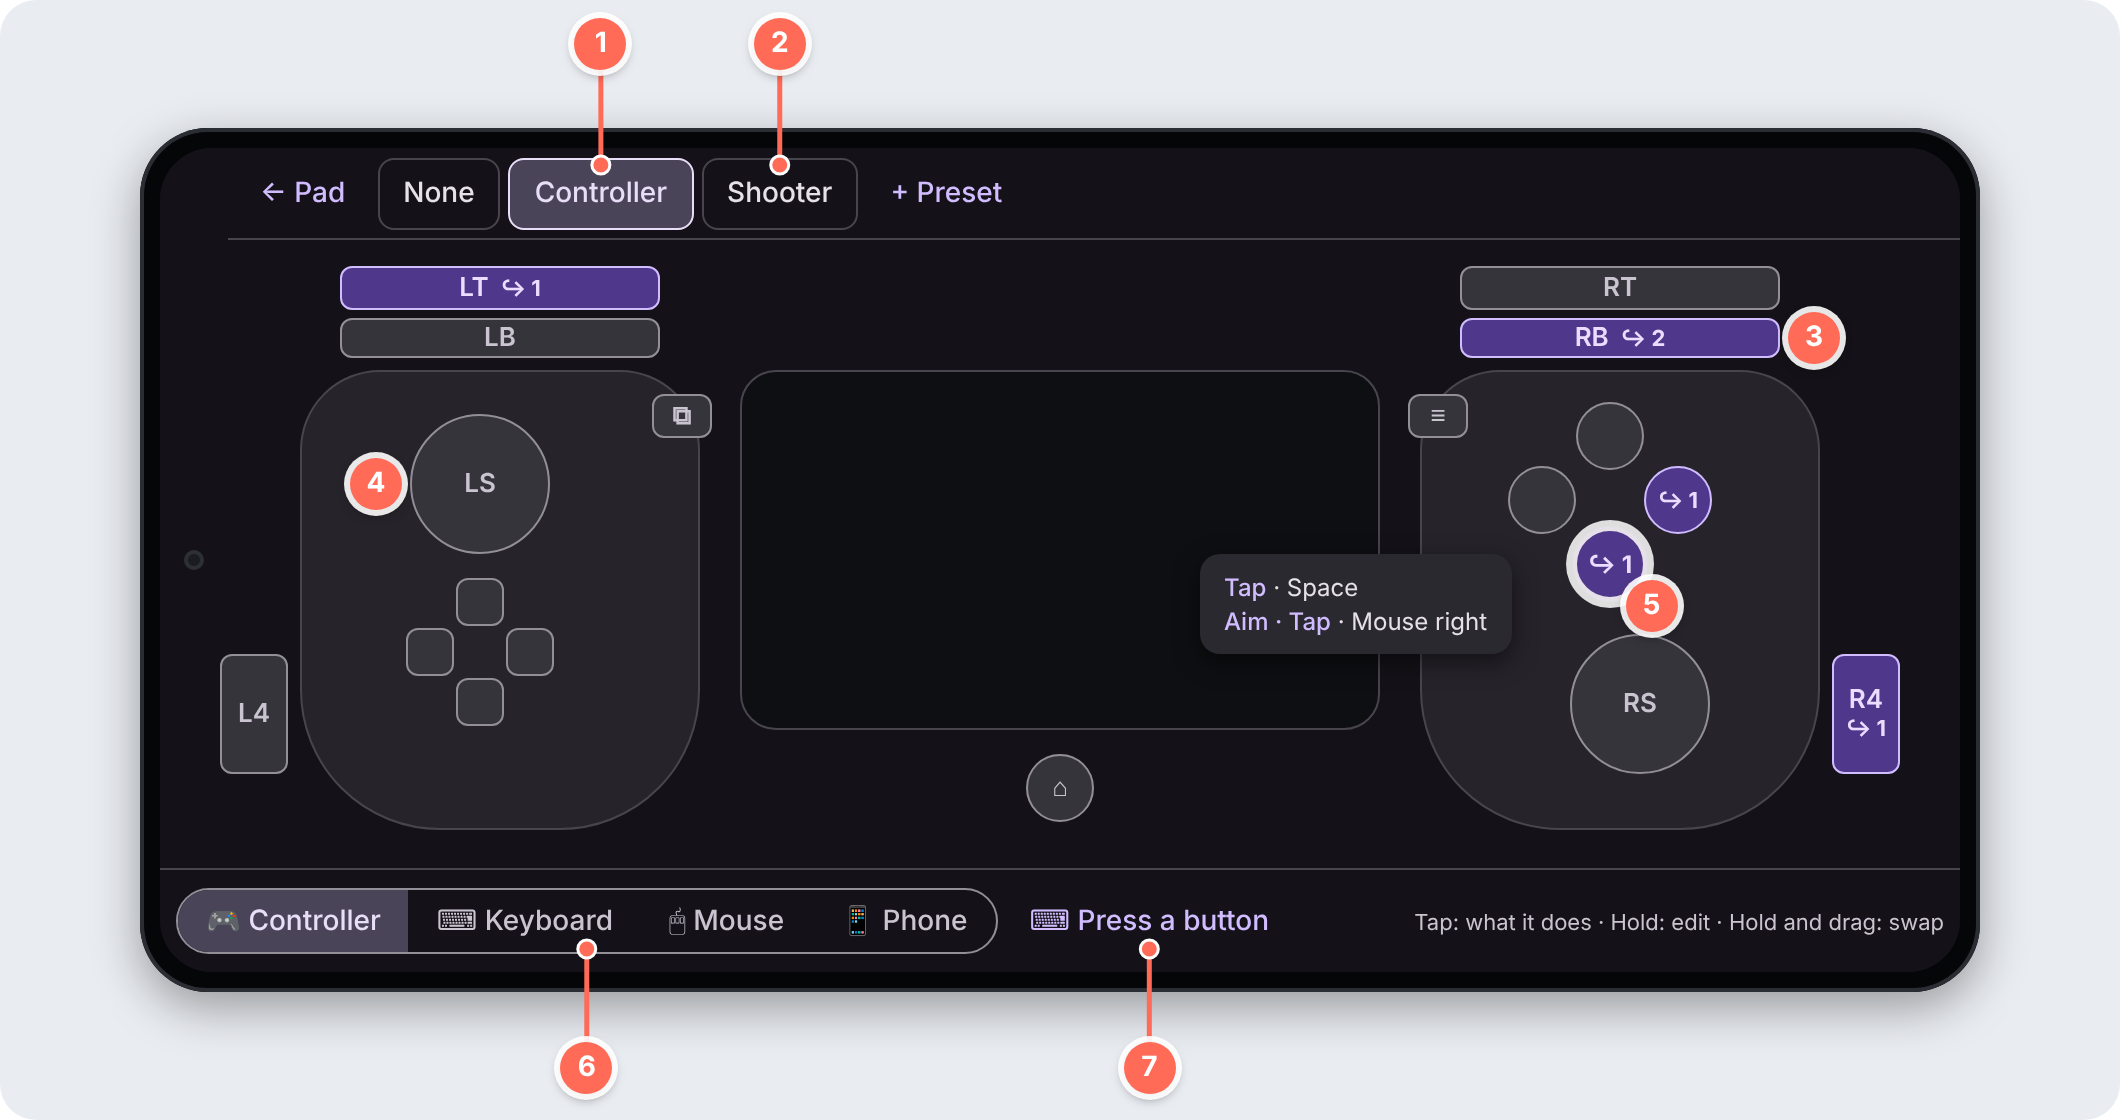
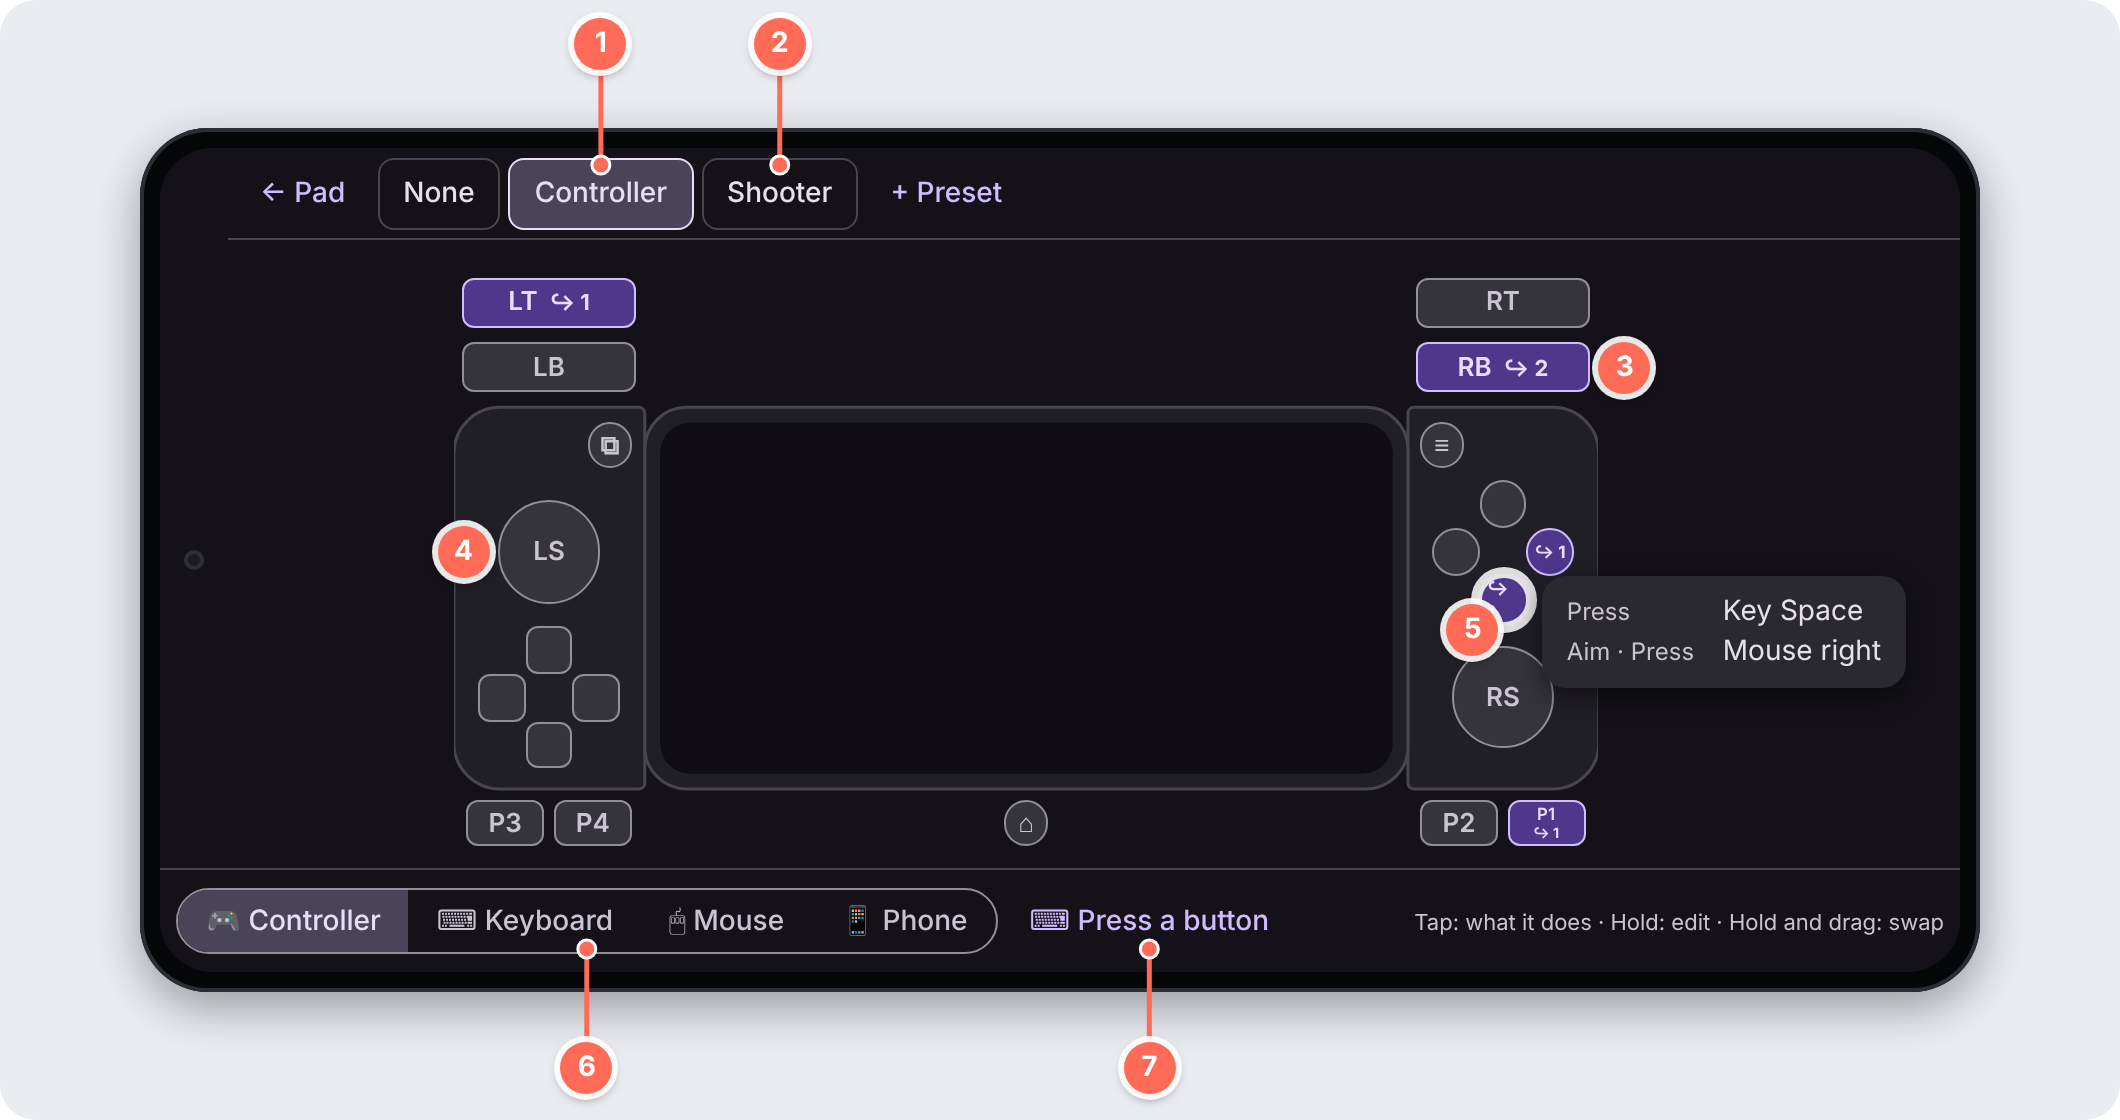
Draw the mapping editor side by side as in landscape, and the controller screen as HandlesView lays it out

diff --git a/docs/guide/mockups/controller-screen.html b/docs/guide/mockups/controller-screen.html
@@ -18,7 +18,7 @@
 .dsw span{padding:7px 14px;font-size:14px;font-weight:500;color:var(--m3-on-variant)}
 .dsw span.on{background:var(--m3-secondary-container);color:var(--m3-on-secondary-container)}
 .pop{position:absolute;background:#2B2930;border-radius:10px;padding:8px 12px;font-size:12px;line-height:17px;color:#E6E0E9;box-shadow:0 4px 12px rgba(0,0,0,.5);white-space:nowrap}
-.pop b{color:#D0BCFF;font-weight:500}
+.pop{background:#2B2930;border-radius:12px;padding:8px 12px;font-size:14px;line-height:20px}.pop .w{display:inline-block;width:78px;font-size:12px;color:#CAC4D0}
 </style></head><body>
 <div class="stage pad-callouts" id="st"></div>
 <script>
@@ -32,31 +32,57 @@ const p = el(s, `<div class="page" style="padding-left:34px">
   <span style="flex:1"></span><span style="font-size:11px;color:var(--m3-on-variant)">Tap: what it does · Hold: edit · Hold and drag: swap</span></div>
 </div>`);
 const b = p.querySelector('.board');
-el(b, `<div class="hand" style="left:70px"></div>`);
-el(b, `<div class="hand" style="left:630px"></div>`);
-el(b, `<div class="ph"></div>`);
-// x, y, w, h, label, round, count (0 = does only itself)
-const K = (id, x, y, w, h, label, round, n = 0) => el(b, `<div class="c${round ? ' r' : ''}${w > 2.4 * h ? ' w' : ''}${n ? ' m' : ''}" data-id="${id}" style="left:${x}px;top:${y}px;width:${w}px;height:${h}px">${label}${n ? `<span class="n">↪ ${n}</span>` : ''}</div>`);
-K('lt', 90, 6, 160, 22, 'LT', false, 1); K('lb', 90, 32, 160, 20, 'LB', false);
-K('rt', 650, 6, 160, 22, 'RT', false); K('rb', 650, 32, 160, 20, 'RB', false, 2);
-K('ls', 125, 80, 70, 70, 'LS', true);
-K('du', 148, 162, 24, 24, '', false); K('dd', 148, 212, 24, 24, '', false); K('dl', 123, 187, 24, 24, '', false); K('dr', 173, 187, 24, 24, '', false);
-K('y', 708, 74, 34, 34, '', true); K('x', 674, 106, 34, 34, '', true); K('b', 742, 106, 34, 34, '', true, 1); K('a', 708, 138, 34, 34, '', true, 1);
-K('rs', 705, 190, 70, 70, 'RS', true);
-K('view', 246, 70, 30, 22, '⧉', false); K('menu', 624, 70, 30, 22, '≡', false);
-K('home', 433, 250, 34, 34, '⌂', true);
-K('p1', 30, 200, 34, 60, 'L4', false); K('p2', 836, 200, 34, 60, 'R4', false, 1);
+// PhysicalLayouts.handles(HANDLES_PHONE) and HandlesView: all sizes in handle heights (u), the box 3 x 1.52 u,
+// as large as fits the board (8 dp padding), centred.
+const BW = 866 - 16, BH = 306 - 16, H = 1.52, W = 3.0;
+const w = Math.min(BW, BH * W / H), h = w * H / W, u = h / H;
+const box = el(b, `<div style="position:absolute;left:${8 + (BW - w) / 2}px;top:${8 + (BH - h) / 2}px;width:${w}px;height:${h}px"></div>`);
+const hTop = 0.36 * u, hw = 0.5 * u;
+const body = '#211F26', edge = '#49454F';
+el(box, `<svg width="${w}" height="${h}" style="position:absolute;left:0;top:0">
+ <path d="${handle(0, true)}" fill="${body}" stroke="${edge}" stroke-width="1.5"/>
+ <path d="${handle(w - hw, false)}" fill="${body}" stroke="${edge}" stroke-width="1.5"/>
+ <rect x="${hw}" y="${hTop}" width="${w - 2 * hw}" height="${u}" rx="${0.11 * u}" fill="${body}" stroke="${edge}" stroke-width="1.5"/>
+ <rect x="${hw + 0.04 * u}" y="${hTop + 0.04 * u}" width="${w - 2 * hw - 0.08 * u}" height="${u - 0.08 * u}" rx="${0.08 * u}" fill="#0F0D13"/></svg>`);
+function handle(x0, outerLeft) {
+  const ro = 0.12 * u, ri = 0.015 * u, [rl, rr] = outerLeft ? [ro, ri] : [ri, ro], x1 = x0 + hw, y0 = hTop, y1 = hTop + u;
+  return `M${x0 + rl},${y0} H${x1 - rr} A${rr},${rr} 0 0 1 ${x1},${y0 + rr} V${y1 - rr} A${rr},${rr} 0 0 1 ${x1 - rr},${y1} H${x0 + rl} A${rl},${rl} 0 0 1 ${x0},${y1 - rl} V${y0 + rl} A${rl},${rl} 0 0 1 ${x0 + rl},${y0} Z`;
+}
+const left = 0.25, right = W - 0.25, t = 0.36, stick = 0.27, key = 0.125, gap = 0.125, bar = 0.46, barH = 0.13, small = 0.12, paddle = 0.2;
+const bottom = t + 1 + 0.03 + 0.06;
+const ICONS = { view: '⧉', menu: '≡', home: '⌂' };
+// id, x, y, w, h (handle heights), label, round, remaps (0 = does only itself)
+const K = (id, x, y, cw, ch, label, round, n = 0) => {
+  const px = x * u - cw * u / 2, py = y * u - ch * u / 2, wide = cw > 2.4 * ch;
+  return el(box, `<div class="c${round ? ' r' : ''}${n ? ' m' : ''}${wide ? ' w' : ''}" data-id="${id}" style="left:${px}px;top:${py}px;width:${cw * u}px;height:${ch * u}px"><span class="in" style="display:flex;flex-direction:${wide ? 'row' : 'column'};align-items:center;gap:${wide ? 6 : 0}px">${label}${n ? `<span class="n">↪ ${n}</span>` : ''}</span></div>`);
+};
+K('lt', left, 0.02 + barH / 2, bar, barH, 'LT', false, 1);
+K('lb', left, 0.02 + barH * 1.5 + 0.04, bar, barH, 'LB', false);
+K('rt', right, 0.02 + barH / 2, bar, barH, 'RT', false);
+K('rb', right, 0.02 + barH * 1.5 + 0.04, bar, barH, 'RB', false, 2);
+K('ls', left, t + 0.38, stick, stick, 'LS', true);
+K('up', left, t + 0.76 - gap, key, key, '', false); K('down', left, t + 0.76 + gap, key, key, '', false);
+K('left', left - gap, t + 0.76, key, key, '', false); K('right', left + gap, t + 0.76, key, key, '', false);
+K('y', right, t + 0.38 - gap, key, key, '', true); K('a', right, t + 0.38 + gap, key, key, '', true, 1);
+K('x', right - gap, t + 0.38, key, key, '', true); K('b', right + gap, t + 0.38, key, key, '', true, 1);
+K('rs', right, t + 0.76, stick, stick, 'RS', true);
+K('view', 0.5 - 0.09, t + 0.1, small, small, ICONS.view, true); K('menu', W - 0.5 + 0.09, t + 0.1, small, small, ICONS.menu, true);
+K('p3', left - 0.115, bottom, paddle, 0.12, 'P3', false); K('p4', left + 0.115, bottom, paddle, 0.12, 'P4', false);
+K('p2', right - 0.115, bottom, paddle, 0.12, 'P2', false); K('p1', right + 0.115, bottom, paddle, 0.12, 'P1', false, 1);
+K('home', W / 2, bottom, small, small, ICONS.home, true);
+// ControlFace: content laid out at full size, then shrunk (never grown) to fit 70 % (round) or 86 % of the control.
+box.querySelectorAll('.c').forEach(c => { const i = c.querySelector('.in'), room = c.classList.contains('r') ? 0.7 : 0.86;
+  const k = Math.min(1, c.clientWidth * room / i.offsetWidth, c.clientHeight * room / i.offsetHeight); i.style.transform = `scale(${k})`; });
 const q = id => b.querySelector(`[data-id="${id}"]`);
 q('a').classList.add('sel');
-const pop = el(b, `<div class="pop" style="left:560px;top:190px"><b>Tap</b> · Space<br><b>Aim · Tap</b> · Mouse right</div>`);
-pop.style.left = '520px'; pop.style.top = '150px';
-const [ax, ay] = at(st, q('a')); const [bx, by] = at(st, q('b'));
+{ const r = q('a'); const x = parseFloat(r.style.left) + parseFloat(r.style.width) + 8 + parseFloat(box.style.left), y = parseFloat(r.style.top) + parseFloat(box.style.top);
+  el(b, `<div class="pop" style="left:${x}px;top:${y}px"><div><span class="w">Press</span>Key Space</div><div><span class="w">Aim · Press</span>Mouse right</div></div>`); }
 const T = (n, e, tx, ty, dx = 0, dy = 0) => { const [x, y] = at(st, e, dx, dy); tag(st, n, x, y, tx ?? x, ty); };
 T(1, p.querySelectorAll('.ptab')[1], null, 22, 0, -14);
 T(2, p.querySelectorAll('.ptab')[2], null, 22, 0, -14);
 badge(st, 3, q('rb'), 'r', 4);
 badge(st, 4, q('ls'), 'l', 4);
-badge(st, 5, q('a'), 'br', 2);
+badge(st, 5, q('a'), 'bl', 2);
 T(6, p.querySelector('.dsw'), null, st.offsetHeight - 26, 0, 14);
 T(7, p.querySelector('.bbar .tb'), null, st.offsetHeight - 26, 0, 14);
 </script></body></html>

diff --git a/docs/guide/mockups/mapping-editor.html b/docs/guide/mockups/mapping-editor.html
@@ -3,23 +3,27 @@
 <script>
 const st = document.getElementById('st');
 const s = phone(st, 'land');
-// ControlMappingScreen.kt in landscape: one thin top row (label, layer chips, Sort, Reset all, Clear all, + Preset, Settings, Undo, Redo, Done);
-// action cards over the library of outputs, with a divider to drag between them.
+// ControlMappingScreen.kt in landscape: one thin top row on its own background (label, layer chips, Sort, Reset all,
+// Clear all, + Preset, Settings, Undo, Redo, Done), then the action cards and the library side by side with a
+// SplitHandle (20 dp, a 4 x 40 dp grip) between them, split half and half by default.
 const p = el(s, `<div class="page" style="padding-left:34px;display:flex;flex-direction:column">
- <div class="mtop"><span class="lbl">LMB</span><span class="setchip on">Base</span><span class="tb">+ Layer</span><span class="tb">Sort ▾</span><span class="tb">↺ Reset all</span><span class="tb">✕ Clear all</span><span class="tb">+ ◯ Preset</span><span class="tb">⚙ Settings</span><span class="tb">↶ Undo</span><span class="tb">↷ Redo</span><span class="done">Done</span></div>
- <div style="padding:8px 12px 0;flex:1;overflow:hidden">
-  <div style="display:flex;gap:6px;margin-bottom:8px"><span class="setchip on">✓ 1 finger</span><span class="setchip">2 fingers</span><span class="setchip">3 fingers</span><span class="setchip">4 fingers</span><span class="setchip">Gyro</span></div>
-  <div class="acard sel"><div class="hd"><span class="t">Touch</span><span class="buzz">Buzz</span><span class="h">⠿</span></div>
-   <div class="crow"><span class="mchip">Mouse L</span><span class="mchip"><small>Long press ·</small> Key R</span></div>
-   <div class="timing">Long press: from 300 ms</div></div>
-  <div class="acard"><div class="hd"><span class="g">⚙</span><span class="t">Move</span><span class="h">✕</span><span class="h">⠿</span></div>
-   <div class="crow"><span class="mchip inh">Mouse X <small>Workspace</small></span><span class="mchip inh">Mouse Y <small>Workspace</small></span></div></div>
- </div>
- <div class="divider"></div>
- <div style="height:128px;background:var(--m3-surface)">
-  <div class="search" style="margin:0 12px 4px;height:34px"><span>⌕</span><span>Search outputs</span></div>
-  <div class="ltabs"><span>Recent</span><span>Presets</span><span class="on">Keyboard</span><span>Mouse</span><span>Gamepad</span><span>Gyro</span><span>Sensitivity</span><span>Touch</span><span>Phone</span><span>Layers</span><span>Other</span></div>
-  <div style="padding:8px 12px"><span class="lchip">⌨ Press a key</span><span class="lchip">Esc</span><span class="lchip">Tab</span><span class="lchip">Space</span><span class="lchip">Shift</span><span class="lchip">Ctrl</span><span class="lchip mapped">R</span><span class="lchip">E</span><span class="lchip">F</span><span class="lchip">Q</span><span class="lchip">1</span><span class="lchip">2</span></div>
+ <div class="mtop" style="background:#211F26"><span class="lbl">LMB</span><span class="setchip on">Base</span><span class="tb">+ Layer</span><span class="tb">Sort ▾</span><span class="tb">↺ Reset all</span><span class="tb">✕ Clear all</span><span class="tb">+ ◯ Preset</span><span class="tb">⚙ Settings</span><span class="tb">↶ Undo</span><span class="tb">↷ Redo</span><span class="done">Done</span></div>
+ <div style="flex:1;display:flex;min-height:0">
+  <div style="flex:1;padding:8px 12px 0;overflow:hidden">
+   <div style="display:flex;gap:6px;margin-bottom:8px;white-space:nowrap"><span class="setchip on">✓ 1 finger</span><span class="setchip">2 fingers</span><span class="setchip">3 fingers</span><span class="setchip">4 fingers</span><span class="setchip">Gyro</span></div>
+   <div class="acard sel"><div class="hd"><span class="t">Touch</span><span class="buzz">Buzz</span><span class="h">⠿</span></div>
+    <div class="crow"><span class="mchip">Mouse L</span><span class="mchip"><small>Long press ·</small> Key R</span></div>
+    <div class="timing">Long press: from 300 ms</div></div>
+   <div class="acard"><div class="hd"><span class="g">⚙</span><span class="t">Move</span><span class="h">✕</span><span class="h">⠿</span></div>
+    <div class="crow"><span class="mchip inh">Mouse X <small>Workspace</small></span><span class="mchip inh">Mouse Y <small>Workspace</small></span></div></div>
+  </div>
+  <div class="vsplit" style="width:20px;background:#211F26;display:flex;align-items:center;justify-content:center"><div style="width:4px;height:40px;border-radius:2px;background:var(--m3-outline)"></div></div>
+  <div style="flex:1;background:#1D1B20;padding-top:8px;overflow:hidden">
+   <div class="search" style="margin:0 12px;height:36px;background:#2B2930"><span>⌕</span><span>Search, e.g. W, LT, wheel</span></div>
+   <div class="lrow" style="display:flex;gap:6px;padding:6px 12px;white-space:nowrap;overflow:hidden"><span class="setchip">⌨ Press a key</span><span class="setchip">Recent</span><span class="setchip">Presets</span><span class="setchip on">✓ Keyboard</span><span class="setchip">Mouse</span><span class="setchip">Gamepad</span><span class="setchip">Gyro</span></div>
+   <div style="font-size:12px;color:var(--m3-on-variant);padding:0 16px">Tap to add to Touch · long-press to drag</div>
+   <div style="padding:10px 12px"><span class="lchip">Esc</span><span class="lchip">Tab</span><span class="lchip">Space</span><span class="lchip">Shift</span><span class="lchip">Ctrl</span><span class="lchip">Alt</span><span class="lchip mapped">R</span><span class="lchip">E</span><span class="lchip">F</span><span class="lchip">Q</span><span class="lchip">W</span><span class="lchip">A</span><span class="lchip">S</span><span class="lchip">D</span><span class="lchip">1</span><span class="lchip">2</span><span class="lchip">3</span><span class="lchip">4</span></div>
+  </div>
  </div></div>`);
 const q = (sel, i = 0) => p.querySelectorAll(sel)[i];
 const T = (n, e, tx, ty, dx = 0, dy = 0) => { const [x, y] = at(st, e, dx, dy); tag(st, n, x, y, tx ?? x, ty); };
@@ -28,11 +32,11 @@ T(1, q('.lbl'), null, 22, 0, edge(q('.lbl')));
 T(2, q('.setchip'), null, 22, 0, edge(q('.setchip')));
 T(3, q('.mtop .tb', 5), null, 22, 0, edge(q('.mtop .tb', 5)));
 T(4, q('.done'), null, 22, 0, edge(q('.done')));
-badge(st, 5, q('.acard .t'), 'r', -150);
+badge(st, 5, q('.acard .t'), 'r', -120);
 badge(st, 6, q('.mchip', 1), 'r', 4);
 badge(st, 7, q('.buzz'), 'l', 4);
-badge(st, 8, q('.mchip.inh', 1), 'r', 4);
-const dv = q('.divider'); T(9, dv, st.offsetWidth - 30, boxOf(st, dv).cy + 60, 0, 0);
-T(10, q('.ltabs span', 2), null, st.offsetHeight - 26, 0, 14);
-T(11, q('.lchip', 0), null, st.offsetHeight - 26, 0, 14);
+badge(st, 8, q('.mchip.inh', 1), 'b', 2);
+const dv = q('.vsplit'); T(9, dv, null, st.offsetHeight - 26, 0, 120);
+badge(st, 10, q('.lrow .setchip', 3), 'tr', 2);
+badge(st, 11, q('.lrow .setchip', 0), 'tl', 2);
 </script></body></html>
